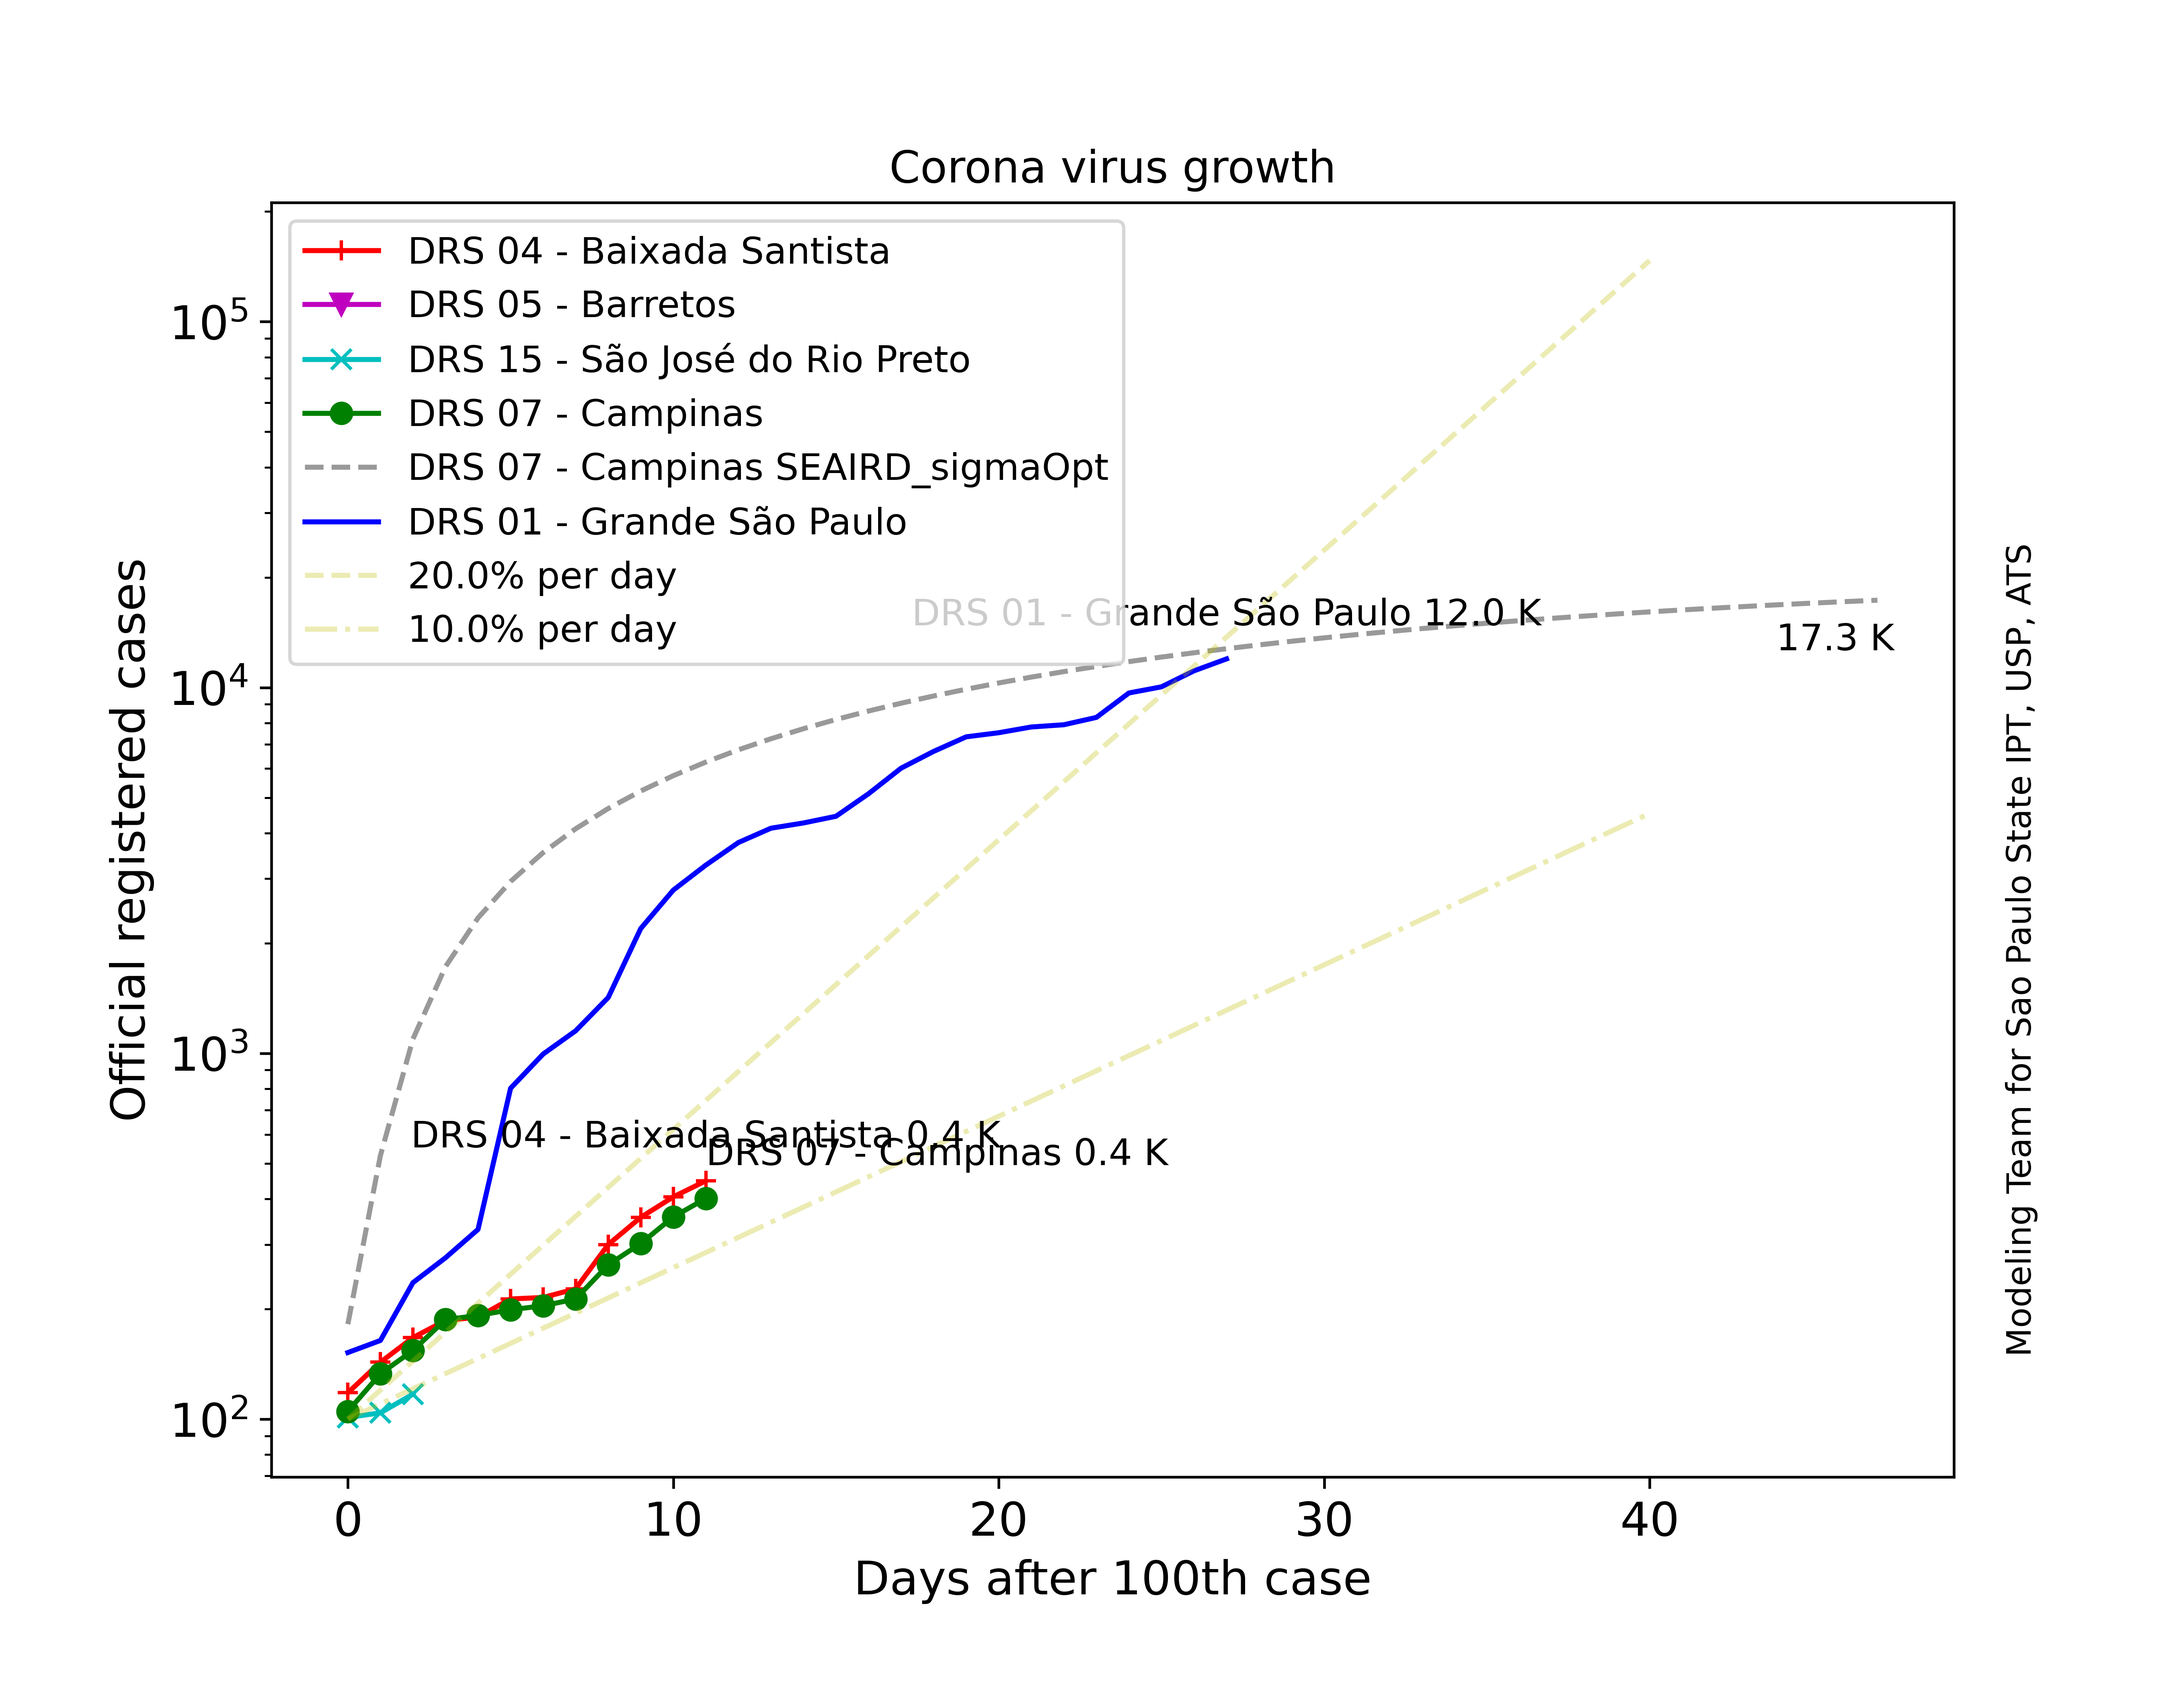
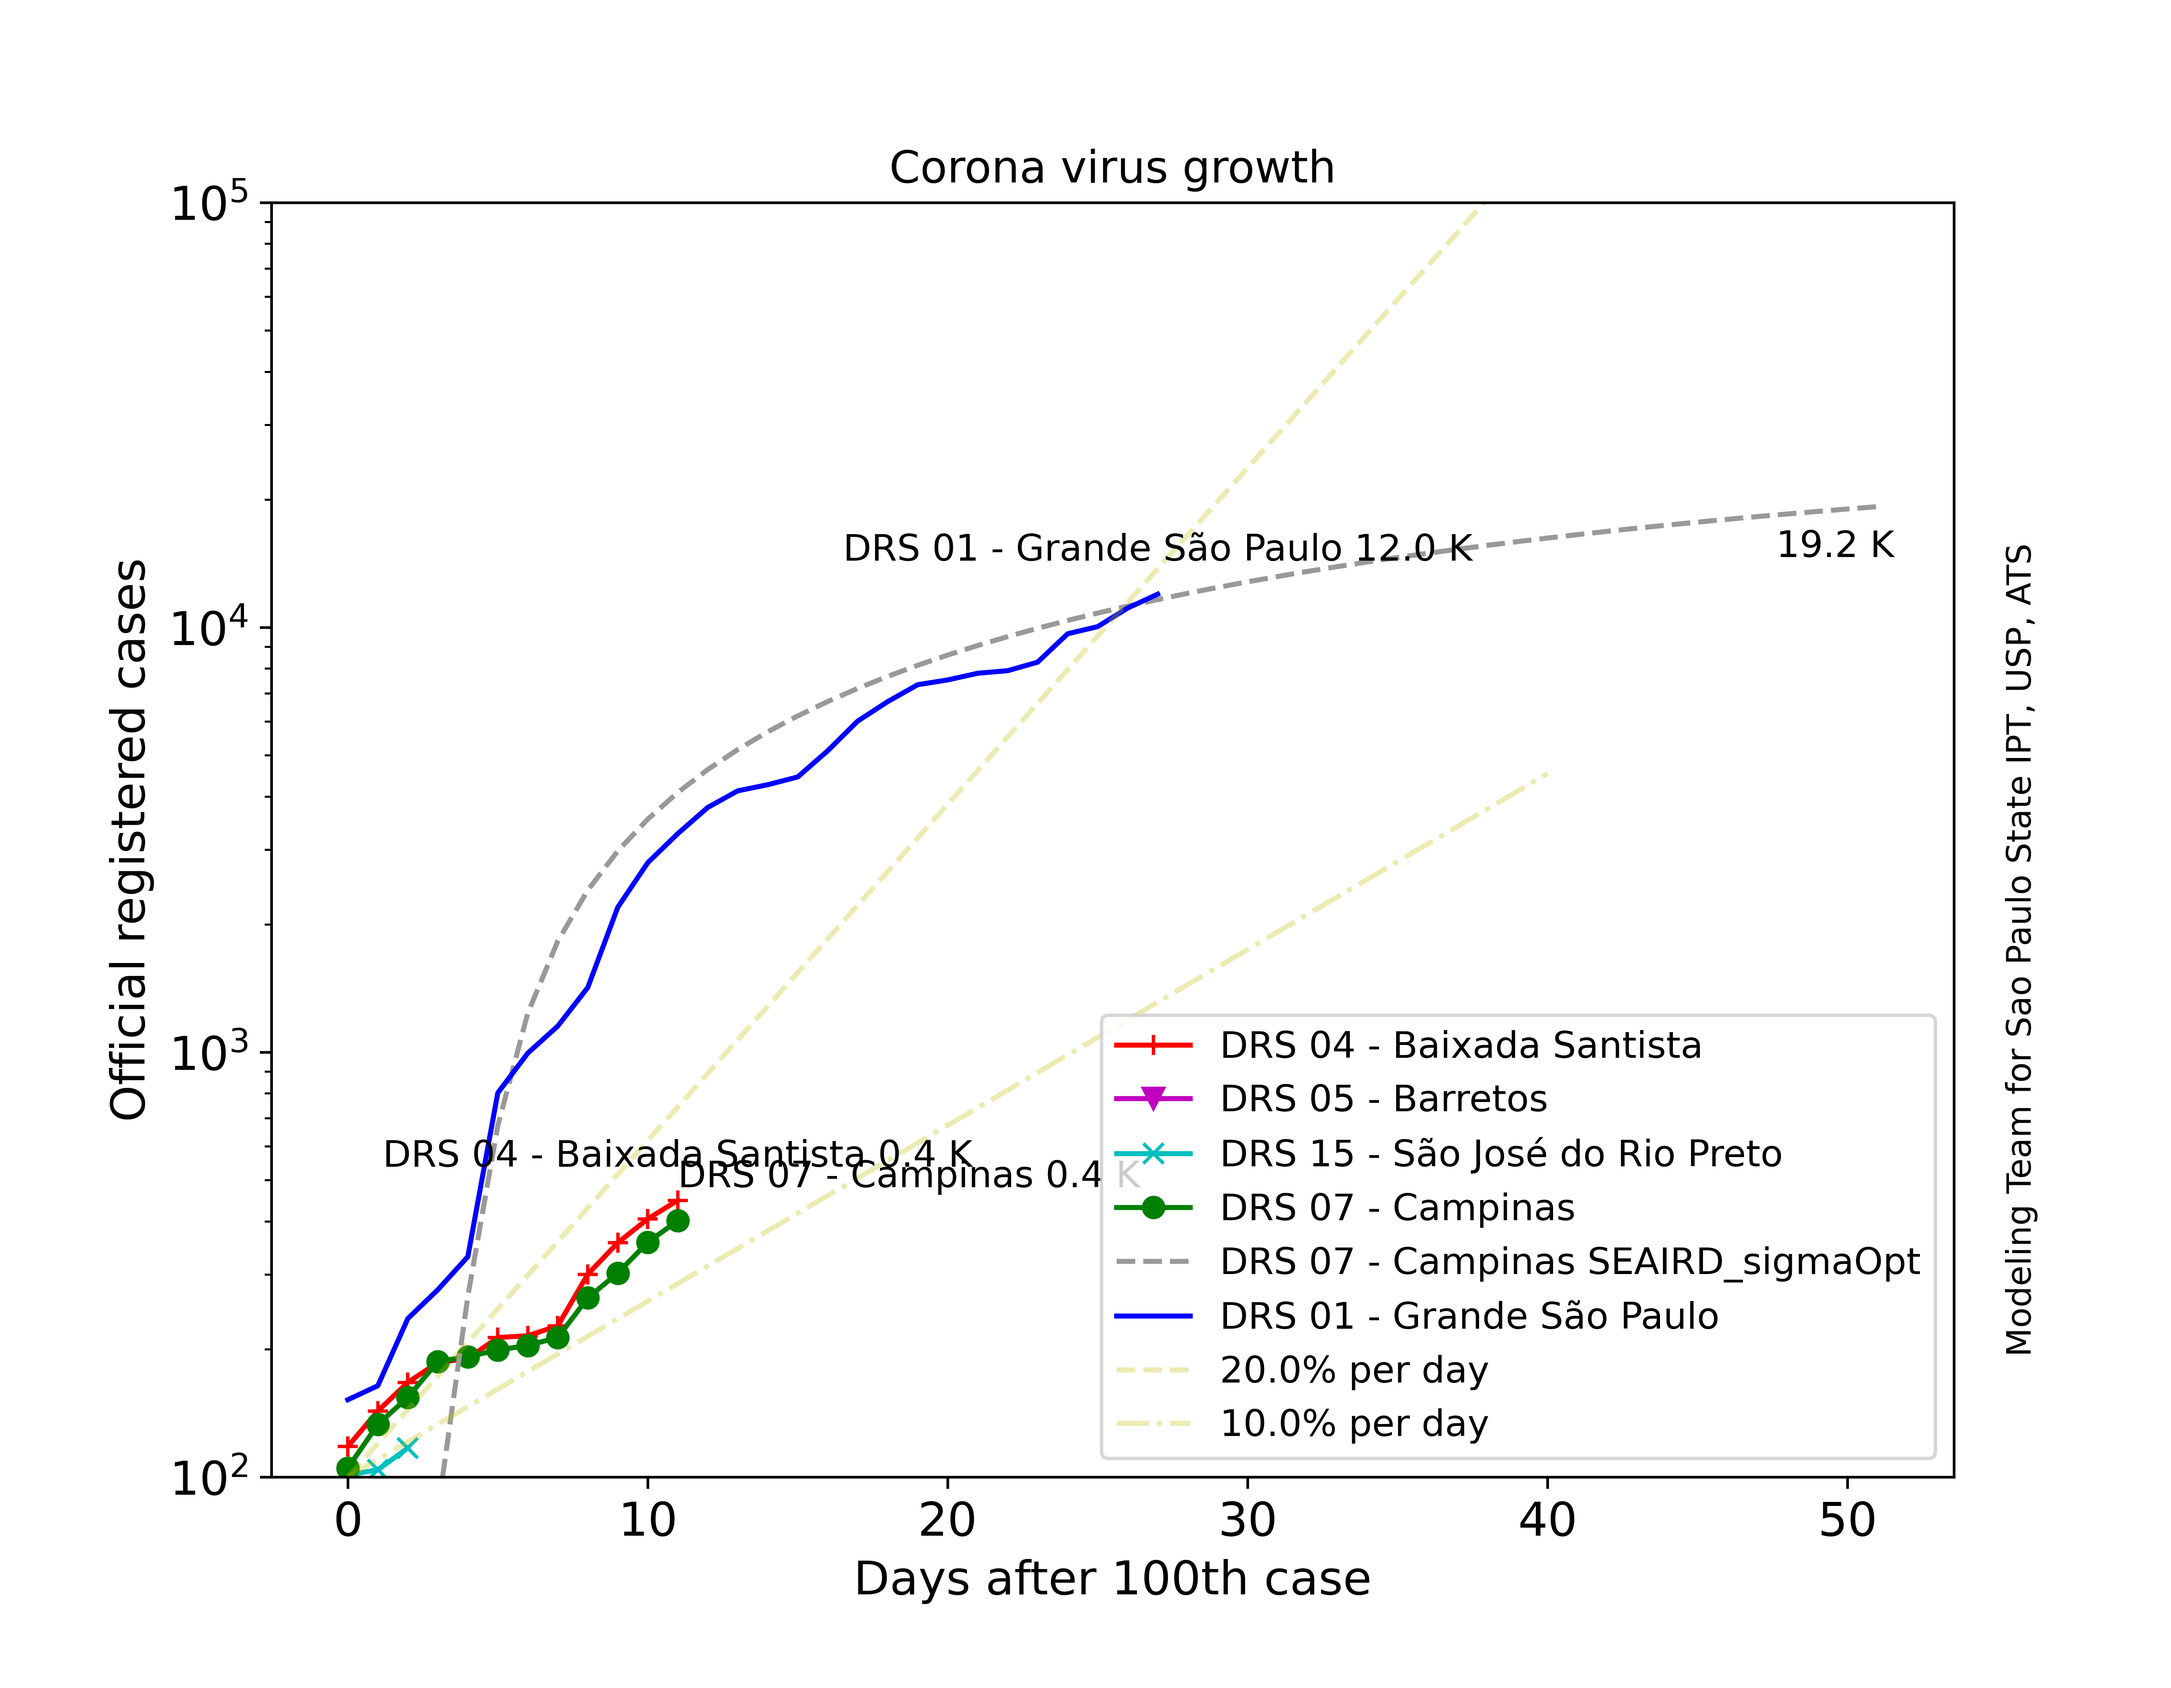
jupyter notebook log plot update

diff --git a/regionsSP/covid_plots.py b/regionsSP/covid_plots.py
@@ -83,7 +83,7 @@ def extend_index(index, new_size):
     return values
 
 def covid_plots(districtRegion, districts4Plot,\
-                startdate="2020-03-15",predict_range = 60, opt = 5, version = "1", show = False):
+                startdate="2020-03-15",predict_range = 60, startCase = 180, opt = 5, version = "1", show = False):
     
     #Initial parameters
     #Choose here your options
@@ -151,7 +151,7 @@ def covid_plots(districtRegion, districts4Plot,\
         model='SEAIRD_sigmaOpt'
 
         df = loadDataFrame('./data/SEAIRD_sigmaOpt_'+districtRegion+'.pkl')
-        time6, cases6 = predictionsPlot(df,180)
+        time6, cases6 = predictionsPlot(df,startCase)
         time6 = time6[0:60]
         cases6 = cases6[0:60]
 
@@ -164,6 +164,7 @@ def covid_plots(districtRegion, districts4Plot,\
         # Plot the data
         plt.rcParams['figure.figsize'] = [9, 7]
         plt.rc('font', size=14)
+        plt.ylim(1e2, 1e5)
         plt.plot(time2, cases2,'r+-',label=districtRegion2) 
         plt.plot(time4, cases4,'mv-',label=districtRegion4) 
         plt.plot(time5, cases5,'cx-',label=districtRegion5) 
